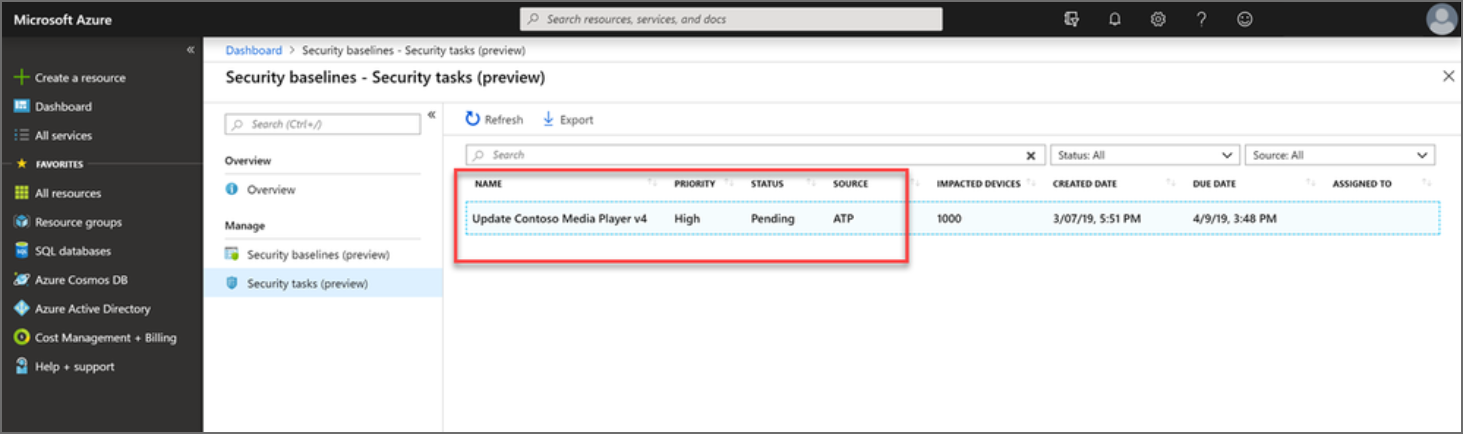
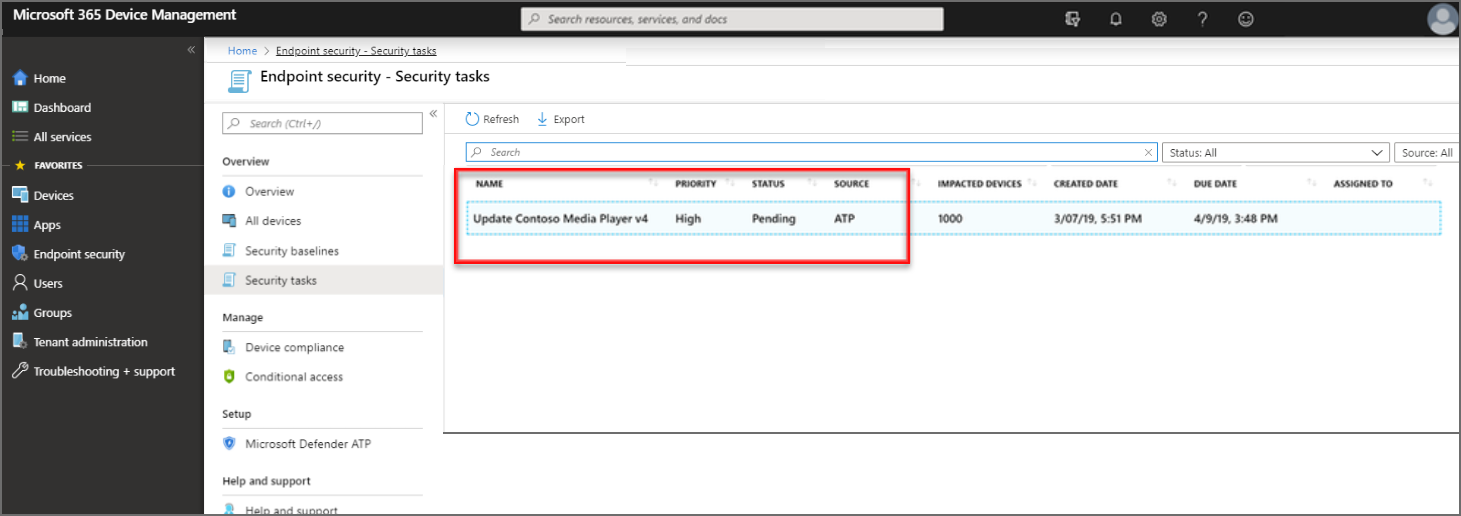
Revising for the new MEMAC workflow

diff --git a/intune/protect/atp-manage-vulnerabilities.md b/intune/protect/atp-manage-vulnerabilities.md
@@ -7,13 +7,13 @@ keywords:
 author: brenduns 
 ms.author: brenduns
 manager: dougeby
-ms.date: 07/12/2019
+ms.date: 11/06/2019
 ms.topic: conceptual
 ms.service: microsoft-intune
 ms.subservice: protect
 ms.localizationpriority: high
 ms.technology:
-ms.reviewer: joglocke
+ms.reviewer: shpate
 
 # optional metadata
 
@@ -27,78 +27,88 @@ ms.custom: intune-azure
 ms.collection: M365-identity-device-management
 ---
 
-# Use Intune to remediate vulnerabilities identified by Microsoft Defender ATP  
+# Use Intune to remediate vulnerabilities identified by Microsoft Defender ATP
 
-When you integrate Intune with Microsoft Defender Advanced Threat Protection (ATP), you can take advantage of ATPs Threat & Vulnerability Management (TVM) and use Intune to remediate endpoint weakness identified by TVM. This integration brings a risk-based approach to the discovery and prioritization of vulnerabilities that can improve remediation response time across your environment.  
+When you integrate Intune with Microsoft Defender Advanced Threat Protection (ATP), you can take advantage of ATPs Threat & Vulnerability Management (TVM) and use Intune to remediate endpoint weakness identified by TVM. This integration brings a risk-based approach to the discovery and prioritization of vulnerabilities that can improve remediation response time across your environment.
 
-[Threat & Vulnerability Management](https://docs.microsoft.com/windows/security/threat-protection/windows-defender-atp/next-gen-threat-and-vuln-mgt) is part of [Microsoft Defender Advanced Threat Protection](https://docs.microsoft.com/windows/security/threat-protection/windows-defender-atp/windows-defender-advanced-threat-protection).  
+[Threat & Vulnerability Management](https://docs.microsoft.com/windows/security/threat-protection/windows-defender-atp/next-gen-threat-and-vuln-mgt) is part of [Microsoft Defender Advanced Threat Protection](https://docs.microsoft.com/windows/security/threat-protection/windows-defender-atp/windows-defender-advanced-threat-protection).
 
-## How integration works  
+## How integration works
 
-After you connect Intune to Microsoft Defender Advanced Threat Protection, ATP receives threat and vulnerability details from managed devices.  
+After you connect Intune to Microsoft Defender Advanced Threat Protection, ATP receives threat and vulnerability details from managed devices.
 
-In the Microsoft Defender Security Center console, ATP security admins review data about endpoint vulnerabilities. The admins then use a single-click to create security tasks that flag the vulnerable devices for remediation. The security tasks are immediately passed to the Intune console where Intune admins can view them. The security task identifies the type of vulnerability, priority, status, and the steps to take to remediate the vulnerability. The Intune admin chooses to accept or reject the task.  
+In the Microsoft Defender Security Center console, ATP security admins review data about endpoint vulnerabilities. The admins then use a single-click to create security tasks that flag the vulnerable devices for remediation. The security tasks are immediately passed to the Intune console where Intune admins can view them. The security task identifies the type of vulnerability, priority, status, and the steps to take to remediate the vulnerability. The Intune admin chooses to accept or reject the task.
 
-When a task is accepted, the Intune admin then acts to remediate the vulnerability though Intune, using the guidance provided as part of the security task.  
+When a task is accepted, the Intune admin then acts to remediate the vulnerability though Intune, using the guidance provided as part of the security task.
 
-Common actions for remediation include:  
+Common actions for remediation include:
 
-- **Block** an application from being run  
-- **Deploy** an operating system update to mitigate the vulnerability.  
-- **Modify** a registry value.  
-- **Disable** or **Enable** a configuration to affect the vulnerability.  
-- **Require Attention** alerts the admin to the threat when there's no suitable recommendation to provide.  
+- **Block** an application from being run
+- **Deploy** an operating system update to mitigate the vulnerability.
+- **Modify** a registry value.
+- **Disable** or **Enable** a configuration to affect the vulnerability.
+- **Require Attention** alerts the admin to the threat when there's no suitable recommendation to provide.
 
 An example workflow:
 
-- Within Microsoft Defender ATP, a vulnerability for an app named Contoso Media Player v4 is discovered and an admin creates a security task to update that app. The Contoso Media player is an unmanaged app that was deployed with Intune.  
+- Within Microsoft Defender ATP, a vulnerability for an app named Contoso Media Player v4 is discovered and an admin creates a security task to update that app. The Contoso Media player is an unmanaged app that was deployed with Intune.
 
-  This security task appears in the Intune console with a status of Pending:  
+  This security task appears in the Intune console with a status of Pending:
+
   ![View the list of security tasks in the Intune console](./media/atp-manage-vulnerabilities/temp-security-tasks.png)
- 
-- The Intune admin selects the security task to view details about the task.  The admin then selects **Accept**, which updates the status in Intune, and in ATP to be *Accepted*.  
-  ![Accept or reject a security task](./media/atp-manage-vulnerabilities/temp-accept-task.png) 
- 
-- The admin then remediates the task based on the guidance provided.  The guidance varies depending on the type of remediation that’s needed. When available, remediation guidance includes links that open relevant panes for configurations in Intune. 
 
-  Because the media player in this example isn't a managed app, Intune can only provide text instructions. If the app was managed, Intune could provide instructions to download an updated version, and provide a link to open the deployment for the app so that the updated files can be added to the deployment. 
+- The Intune admin selects the security task to view details about the task.  The admin then selects **Accept**, which updates the status in Intune, and in ATP to be *Accepted*.
 
-- After the completing the remediation, the Intune admin opens the security task and selects **Complete Task**.  The remediation status is updated for Intune and in ATP, where security admins confirm the revised status for the vulnerability.  
+  ![Accept or reject a security task](./media/atp-manage-vulnerabilities/temp-accept-task.png)
+
+- The admin then remediates the task based on the guidance provided. The guidance varies depending on the type of remediation that’s needed. When available, remediation guidance includes links that open relevant panes for configurations in Intune.
+
+  Because the media player in this example isn't a managed app, Intune can only provide text instructions. If the app was managed, Intune could provide instructions to download an updated version, and provide a link to open the deployment for the app so that the updated files can be added to the deployment.
+
+- After the completing the remediation, the Intune admin opens the security task and selects **Complete Task**.  The remediation status is updated for Intune and in ATP, where security admins confirm the revised status for the vulnerability.
 
 ## Prerequisites  
 
-**Subscriptions**:  
+**Subscriptions**:
 
 - Microsoft Intune  
-- Microsoft Defender Advanced Threat Protection ([Sign up for a free trial](https://www.microsoft.com/WindowsForBusiness/windows-atp?ocid=docs-wdatp-main-abovefoldlink).)  
+- Microsoft Defender Advanced Threat Protection ([Sign up for a free trial](https://www.microsoft.com/WindowsForBusiness/windows-atp?ocid=docs-wdatp-main-abovefoldlink).)
 
-**Intune configurations for ATP**:  
+**Intune configurations for ATP**:
 
-- Configure a service to service connection with Microsoft Defender ATP.  
+- Configure a service to service connection with Microsoft Defender ATP.
 - Deploy a device configuration policy with a profile type of **Microsoft Defender ATP (Windows 10 Desktop)** to devices that will have risk assessed by ATP.
 
-  For information about how to set up Intune to work with ATP, see [Enforce compliance for Microsoft Defender ATP with Conditional Access in Intune](advanced-threat-protection.md#enable-microsoft-defender-atp-in-intune).  
+  For information about how to set up Intune to work with ATP, see [Enforce compliance for Microsoft Defender ATP with Conditional Access in Intune](advanced-threat-protection.md#enable-microsoft-defender-atp-in-intune).
 
-## Work with security tasks  
+## Work with security tasks
 
-1. Sign in to [Intune](https://go.microsoft.com/fwlink/?linkid=2090973) and go to **Device security** > **Security tasks**.  
-2. Select a task from the list to open a resource window that displays additional details for that security task.  
-3. While viewing the security task resource window, you can select additional links:  
-   - MANAGED APPS - View the app that is vulnerable. When the vulnerability applies to multiple apps, you’ll see a filtered list of apps.  
-   - DEVICES - View a list of the *Vulnerable devices*, from which you can link through to an entry with more details for the vulnerability on that device.  
-   - REQUESTOR - Use the link to send mail to the admin who submitted this security task.  
-   - NOTES - Read custom messages submitted by the requestor when opening the security task.  
-4. Select **Accept** or **Reject** to send notification to ATP for your planned action. When you accept or reject a task, you can submit notes, which are sent to ATP.  
+1. Sign in to the [Microsoft Endpoint Manager Admin Center](https://go.microsoft.com/fwlink/?linkid=2109431).
 
-5. After accepting a task, reopen the security task (if it closed), and follow the REMEDIATION details to remediate the vulnerability.  The instructions provided by ATP in the security task details vary depending on the vulnerability involved.  
+2. Select **Endpoint security** > **Security tasks**.
 
-   When it’s possible to do so, the remediation instructions include links that open the relevant configuration objects in the Intune console.  
+3. Select a task from the list to open a resource window that displays additional details for that security task.
 
-6. After completing the remediation steps, open the security task and select **Complete Task**.  This action updates the security task status in both Intune and ATP.  
+   While viewing the security task resource window, you can select additional links:
 
-After remediation is successful, the risk exposure score in ATP can drop, based on new information from the remediated devices. 
+   - MANAGED APPS - View the app that is vulnerable. When the vulnerability applies to multiple apps, you’ll see a filtered list of apps.
+   - DEVICES - View a list of the *Vulnerable devices*, from which you can link through to an entry with more details for the vulnerability on that device.
+   - REQUESTOR - Use the link to send mail to the admin who submitted this security task.
+   - NOTES - Read custom messages submitted by the requestor when opening the security task.
+
+4. Select **Accept** or **Reject** to send notification to ATP for your planned action. When you accept or reject a task, you can submit notes, which are sent to ATP.
+
+5. After accepting a task, reopen the security task (if it closed), and follow the REMEDIATION details to remediate the vulnerability. The instructions provided by ATP in the security task details vary depending on the vulnerability involved.
+
+   When it’s possible to do so, the remediation instructions include links that open the relevant configuration objects in the Intune console.
+
+6. After completing the remediation steps, open the security task and select **Complete Task**.  This action updates the security task status in both Intune and ATP.
+
+After remediation is successful, the risk exposure score in ATP can drop, based on new information from the remediated devices.
 
 ## Next Steps
-Learn more about Intune and [Microsoft Defender ATP](advanced-threat-protection.md)  
-Review Intune [Mobile Threat Defense](mobile-threat-defense.md)  
-Review the [Threat & Vulnerability Management dashboard](https://docs.microsoft.com/windows/security/threat-protection/windows-defender-atp/tvm-dashboard-insights) in Microsoft Defender ATP
+Learn more about Intune and [Microsoft Defender ATP](advanced-threat-protection.md).
+
+Review Intune [Mobile Threat Defense](mobile-threat-defense.md).
+
+Review the [Threat & Vulnerability Management dashboard](https://docs.microsoft.com/windows/security/threat-protection/windows-defender-atp/tvm-dashboard-insights) in Microsoft Defender ATP.
